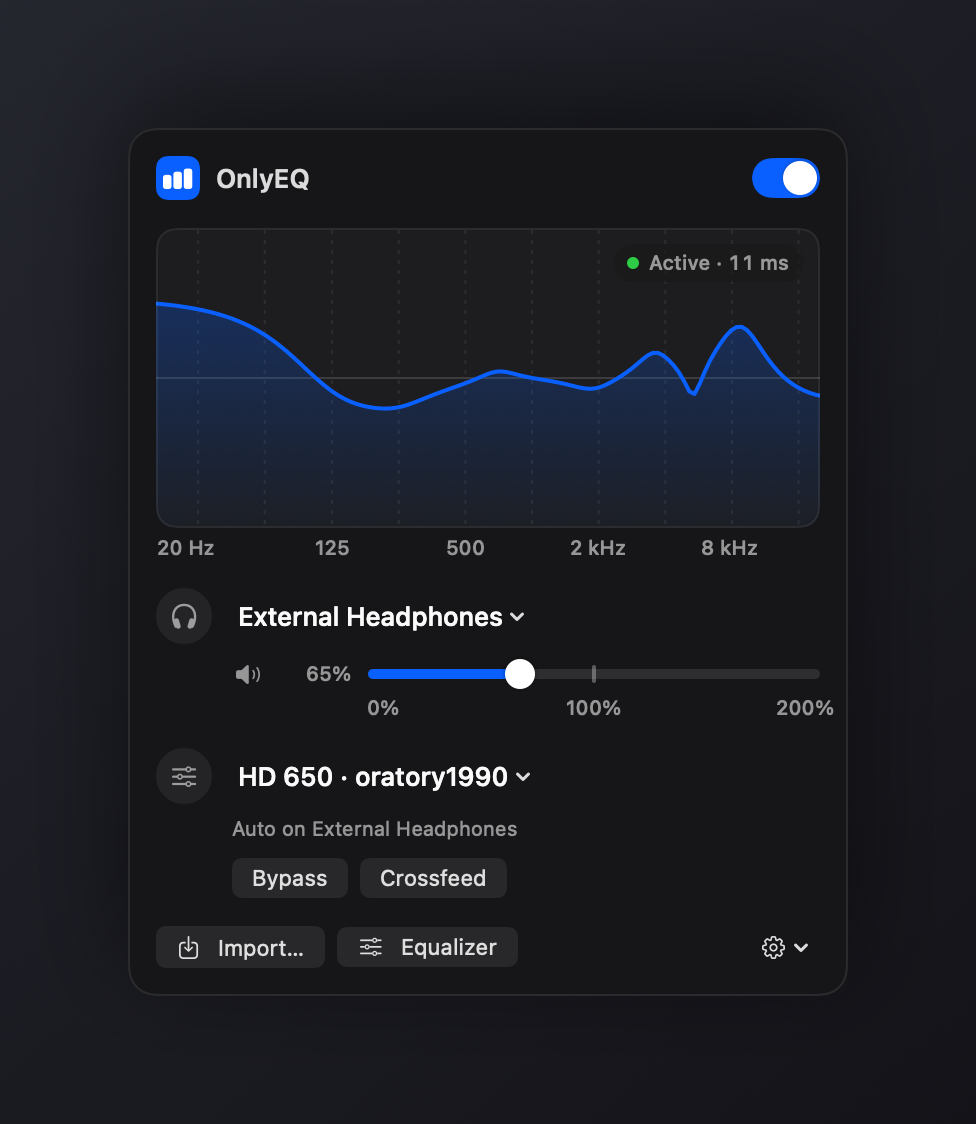
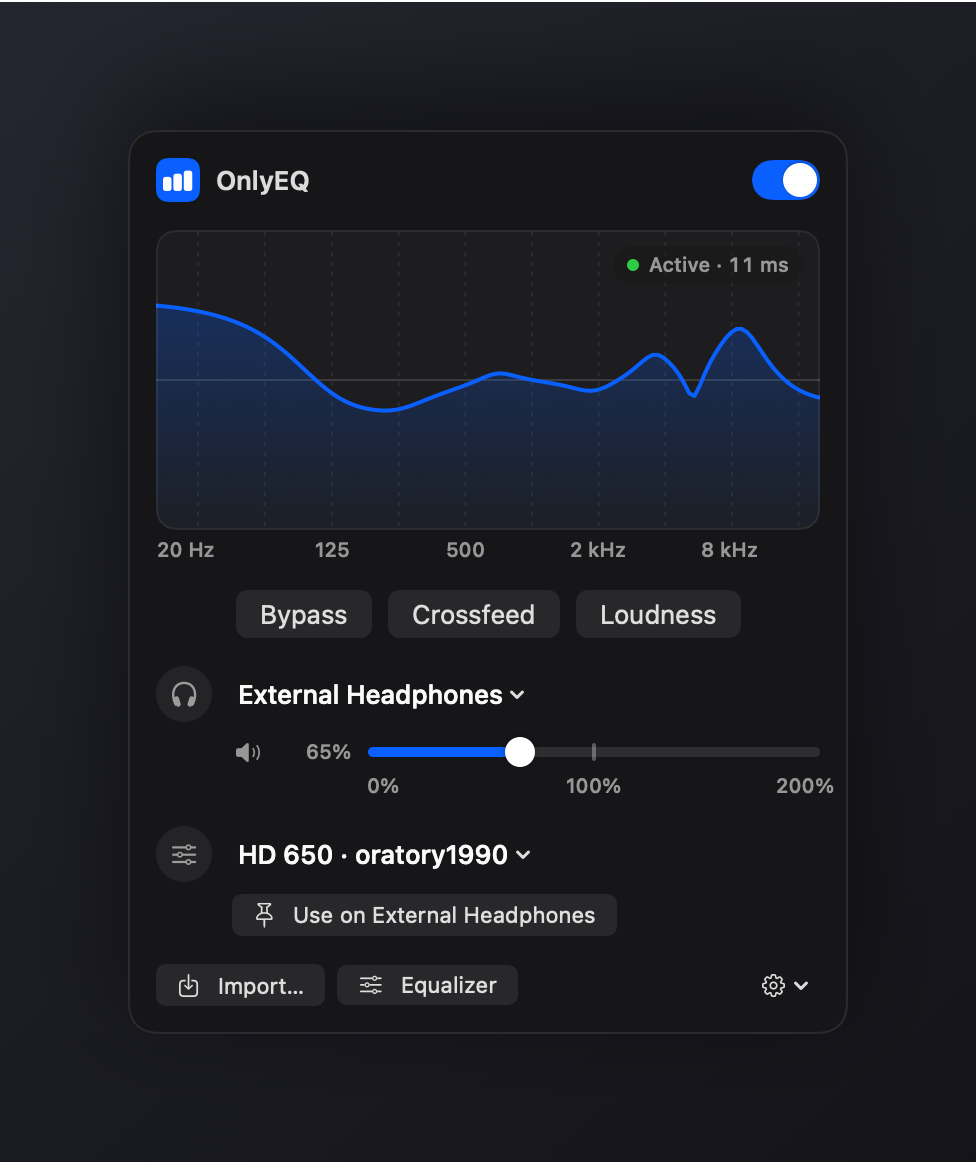
feat: listening row under the curve, bindable preset with undo (#39)

diff --git a/Sources/OnlyEQ/UI/PopoverView.swift b/Sources/OnlyEQ/UI/PopoverView.swift
@@ -15,9 +15,9 @@ import SwiftUI
 // STORY: Open, watch the curve under the music, see which device and preset
 //   are live, flip Bypass to hear it flat, close. Editing happens elsewhere.
 // FIRST VIEWPORT: 360 pt wide, about 430 tall. OnlyEQ and its switch; the
-//   plot, 150 pt, with its axis and a status pill in the corner; output
-//   device with volume; preset with its device binding and Bypass |
-//   Crossfeed; Import…, Equalizer, and the gear at the bottom.
+//   plot, 150 pt, with its axis and a status pill in the corner; Bypass |
+//   Crossfeed | Loudness under the axis; output device with volume; preset
+//   with its device binding; Import…, Equalizer, and the gear at the bottom.
 // FORM: curve-first stack, candidate 2 of the grounded list, chosen by the
 //   user over the rolled candidate 7 (key 1512465f).
 // FINISH: unreviewed and undocumented is unfinished; this build ends with
@@ -40,6 +40,7 @@ struct PopoverView: View {
             header
             curvePane
             Group {
+                listeningRow
                 deviceRow
                 presetRow
             }
@@ -269,32 +270,51 @@ struct PopoverView: View {
             VStack(alignment: .leading, spacing: 8) {
                 // The binding that makes "set once" work is otherwise
                 // invisible; name it under the preset, or offer it.
-                if let caption = presetBindingCaption {
-                    Text(caption)
-                        .font(.caption)
-                        .foregroundStyle(.secondary)
-                        .lineLimit(1)
-                } else if let device = state.currentDevice {
-                    Button("Use on \(device.name) automatically") {
-                        state.bindPresetToCurrentDevice()
+                if let caption = presetBindingCaption, let device = state.currentDevice {
+                    // Binding is reversible where it was made.
+                    Menu {
+                        Button("Stop Using Automatically on \(device.name)") {
+                            state.unbindCurrentDevice()
+                        }
+                    } label: {
+                        Text(caption)
+                            .font(.caption)
+                            .foregroundStyle(.secondary)
+                            .lineLimit(1)
                     }
-                    .buttonStyle(.plain)
-                    .font(.caption)
-                    .foregroundStyle(Color.accentColor)
-                    .lineLimit(1)
-                    .help("Apply this preset whenever \(device.name) becomes the output")
+                    .menuStyle(.borderlessButton)
+                    .fixedSize()
+                    .help("This preset is applied whenever \(device.name) becomes the output.")
+                } else if let device = state.currentDevice {
+                    Button {
+                        state.bindPresetToCurrentDevice()
+                    } label: {
+                        Label("Use on \(device.name)", systemImage: "pin")
+                            .lineLimit(1)
+                    }
+                    .buttonStyle(.bordered)
+                    .controlSize(.small)
+                    .help("Apply this preset automatically whenever \(device.name) becomes the output")
                 }
-                HStack(spacing: 6) {
-                    Toggle("Bypass", isOn: $state.bypassed)
-                        .help("Hear the unprocessed signal without changing the preset")
-                    Toggle("Crossfeed", isOn: $state.crossfeedEnabled)
-                        .help("Blend a little of each channel into the other for headphones")
-                }
-                .toggleStyle(.button)
-                .buttonStyle(.bordered)
-                .controlSize(.small)
             }
         }
+    }
+
+    /// The listening switches sit under the curve: Bypass empties the
+    /// plot when pressed, so the control and its feedback stay together.
+    private var listeningRow: some View {
+        HStack(spacing: 8) {
+            Toggle("Bypass", isOn: $state.bypassed)
+                .help("Hear the unprocessed signal without changing the preset")
+            Toggle("Crossfeed", isOn: $state.crossfeedEnabled)
+                .help("Blend a little of each channel into the other for headphones")
+            Toggle("Loudness", isOn: $state.loudnessEnabled)
+                .help("Raise bass and treble as the volume drops below your reference level")
+        }
+        .toggleStyle(.button)
+        .buttonStyle(.bordered)
+        .controlSize(.regular)
+        .frame(maxWidth: .infinity)
     }
 
     private func menuLabel(_ name: String) -> some View {

diff --git a/Sources/OnlyEQ/TestRunner.swift b/Sources/OnlyEQ/TestRunner.swift
@@ -211,6 +211,11 @@ enum TestRunner {
             let byName = DeviceProfile(deviceUID: "uid-c", deviceName: "Headphones",
                                        presetID: UUID(), presetName: "Working")
             expect(corrupt.resolveProfilePreset(byName)?.id == stored.id, "binding resolves by name when the id is stale")
+
+            corrupt.setProfile(deviceUID: "uid-c", deviceName: "Headphones", preset: stored)
+            corrupt.removeProfile(deviceUID: "uid-c")
+            expect(corrupt.deviceProfiles["uid-c"] == nil, "removing a profile forgets the device")
+            expect(PresetStore(directory: dir).deviceProfiles["uid-c"] == nil, "removed profile stays removed on disk")
             expect(corrupt.customPresets.count == 1, "saving under an existing name replaces, not appends")
         }
     }

diff --git a/Sources/OnlyEQ/App/AppState.swift b/Sources/OnlyEQ/App/AppState.swift
@@ -527,6 +527,13 @@ final class AppState: ObservableObject {
         store.setProfile(deviceUID: device.uid, deviceName: device.name, preset: preset, autoApply: true)
     }
 
+    /// The reverse of binding: the device keeps whatever is playing now but
+    /// nothing is applied for it on connect.
+    func unbindCurrentDevice() {
+        guard let device = currentDevice else { return }
+        store.removeProfile(deviceUID: device.uid)
+    }
+
     /// The stored preset the working preset came from, if it still exists.
     var savedPreset: EQPreset? { store.allPresets.first { $0.id == preset.id } }
 

diff --git a/Sources/OnlyEQ/Models/PresetStore.swift b/Sources/OnlyEQ/Models/PresetStore.swift
@@ -84,6 +84,12 @@ final class PresetStore: ObservableObject {
         workingPresets[uid]
     }
 
+    /// Forget a device entirely: no preset, no auto-apply, as if never seen.
+    func removeProfile(deviceUID: String) {
+        deviceProfiles[deviceUID] = nil
+        persist()
+    }
+
     func setProfile(deviceUID: String, deviceName: String, preset: EQPreset?, autoApply: Bool = true) {
         deviceProfiles[deviceUID] = DeviceProfile(
             deviceUID: deviceUID, deviceName: deviceName,

diff --git a/DESIGN.md b/DESIGN.md
@@ -152,7 +152,7 @@ components:
 
 OnlyEQ should look like a utility Apple forgot to ship. Every colour is a system semantic colour that follows the user's accent and appearance; every typeface is San Francisco through the system text styles; every control is either a native SwiftUI control or a pixel-faithful stand-in for one. The app has no palette, no logo mark beyond an SF Symbol in an accent square, and no decoration. Brand lives in one place only: the frequency-response curve with the live spectrum breathing behind it, and the band palette that ties graph handles to their cards.
 
-The popover is one instrument, not a stack of cards. Under the name and its switch, the live response spans the full width inside a hairline well, and the controls follow beneath it, reading top to bottom as the signal path: output device with volume, preset with its device binding and Bypass and Crossfeed, then Import, Equalizer, and the gear. Rows are separated by space, not by boxes. The whole thing sits on the system's own menu-bar material in a 360 point wide panel at least 420 points tall that grows only with the system text size. The editor, Settings, onboarding, and the import sheet are ordinary macOS windows: a unified toolbar, toolbar-style settings tabs, a setup assistant with a Back and Continue footer, a sheet with a segmented picker.
+The popover is one instrument, not a stack of cards. Under the name and its switch, the live response spans the full width inside a hairline well, with Bypass, Crossfeed, and Loudness in one row beneath it, and the controls follow, reading top to bottom as the signal path: output device with volume, preset with its device binding, then Import, Equalizer, and the gear. Rows are separated by space, not by boxes. The whole thing sits on the system's own menu-bar material in a 360 point wide panel at least 420 points tall that grows only with the system text size. The editor, Settings, onboarding, and the import sheet are ordinary macOS windows: a unified toolbar, toolbar-style settings tabs, a setup assistant with a Back and Continue footer, a sheet with a segmented picker.
 
 Motion is short, eased, and tied to a state change. A switch slides in 120 ms, bypass fades the plot in 150 ms, the band strip scrolls a selected card into view in 200 ms, and the spectrum attacks in 10 ms and releases over 400 ms. Every one of them is skipped under Reduce Motion, and that is the whole vocabulary.
 
@@ -221,7 +221,7 @@ The palette is macOS itself; the tokens above are dark-appearance snapshots of d
 
 ## Layout
 
-The popover is one `VStack` at 14 pt spacing inside 14 pt padding, 360 pt wide and at least 420 pt tall. Top to bottom: the header (22 pt app badge, the name, the switch at the trailing edge), the plot well at a fixed 150 pt with the status pill in its top-trailing corner and the compact axis labels 4 pt beneath, the device row with the boost slider, the preset row with its binding caption and Bypass and Crossfeed, and the footer (Import, Equalizer, and the gear menu with its system indicator). Each identity row is a 28 pt circled symbol, a 10 pt gap, a borderless menu, and its detail indented 38 pt underneath. The popover is sized once to its fitting size when shown, so the panel never resizes while open. It grows only with the system text size.
+The popover is one `VStack` at 14 pt spacing inside 14 pt padding, 360 pt wide and at least 420 pt tall. Top to bottom: the header (22 pt app badge, the name, the switch at the trailing edge), the plot well at a fixed 150 pt with the status pill in its top-trailing corner and the compact axis labels 4 pt beneath, the listening row (Bypass, Crossfeed, Loudness as regular-size button toggles, centred), the device row with the boost slider, the preset row with its binding line (a "Use on <device>" button, or an "Auto on <device>" menu whose one item removes the binding), and the footer (Import, Equalizer, and the gear menu with its system indicator). Each identity row is a 28 pt circled symbol, a 10 pt gap, a borderless menu, and its detail indented 38 pt underneath. The popover is sized once to its fitting size when shown, so the panel never resizes while open. It grows only with the system text size.
 
 The editor window opens at 840 by 560 pt with a minimum of 720 by 480. Its unified 52 pt title bar carries real toolbar items (preset menu, Save, Revert on the left; Bypass in the centre; Import and the gear on the right) and hides the window title. Below it: the Compare row, a divider, the graph filling the remaining height with 24 pt side margins, a 122 pt horizontally scrolling strip of 150 pt band cards at 8 pt spacing, a divider, and the Preamp bar. Everything in the editor shares the 24 pt horizontal margin.
 

diff --git a/README.md b/README.md
@@ -18,7 +18,7 @@ This is a fork of [zollans/OnlyEQ](https://github.com/zollans/OnlyEQ). Everythin
 - **Loudness-matched bypass.** Bypass keeps the preamp, output gain, and limiter active and skips only the filter bands. It also measures the K-weighted loudness (ITU-R BS.1770) the bands add on whatever is playing, averaged over the last three seconds, and applies that gain to the bypassed signal, so an A/B comparison is decided by tone rather than by which side is louder.
 - **Crossfeed** for headphones (Bauer-style low-pass and 0.3 ms delay, with the near ear giving up the bass the far ear receives so centred content passes at unity). Toggle in the popover; Settings › Sound offers the three published bs2b settings (Natural, Chu Moy, Jan Meier) or a custom amount and cutoff.
 - **Loudness compensation** following the ISO 226 equal-loudness contours: low and high shelves grow as the volume drops below a reference level you set, and the preamp absorbs the boost so nothing clips.
-- **A popover that is the instrument.** The live curve spans the popover under the name and switch, with the input and output spectrum behind it; the controls below read as the signal path: output device and volume, preset with the device it is bound to, Bypass and Crossfeed. The panel uses the system menu-bar material (Liquid Glass on macOS 26). The menu-bar icon fills while the EQ shapes sound and outlines while it is off or bypassed.
+- **A popover that is the instrument.** The live curve spans the popover under the name and switch, with the input and output spectrum behind it; Bypass, Crossfeed, and Loudness sit right under it, and the rows below read as the signal path: output device and volume, then the preset with the device it is bound to. The panel uses the system menu-bar material (Liquid Glass on macOS 26). The menu-bar icon fills while the EQ shapes sound and outlines while it is off or bypassed.
 - **Editor with a real title-bar toolbar**, and Settings in its own window (⌘,), as on any Mac app.
 - **Releases from GitHub Actions.** Every push runs the self-tests and builds the universal app in release mode. Pushing a `v*` tag signs the archive with this fork's Sparkle key and publishes it with its appcast as a GitHub Release, which installed copies pick up automatically. Upstream's feed is no longer used, so an upstream release can never replace a fork build.
 - **Input and output spectrum.** The analyser draws the pre-EQ signal in grey behind the post-EQ signal in the accent colour, level-aligned for preamp and output gain, so the EQ's effect is visible on real music. Bars show band power (a full-scale sine reads 0 dBFS), tilted 2 dB per octave so typical music reads flat instead of bass-heavy, with a 10 ms attack and 400 ms release so transients register without flicker. Bars below about 300 Hz read from a 16384-point FFT and the rest from a 2048-point one, so bass has real resolution without smearing transients above.

diff --git a/release-notes/1.4.3.md b/release-notes/1.4.3.md
@@ -1,0 +1,5 @@
+# OnlyEQ 1.4.3
+
+- Bypass, Crossfeed, and Loudness sit in one row directly under the curve. Loudness compensation was only in Settings › Sound before.
+- The offer to bind the preset to the current device is a real button, "Use on <device>", instead of accent-coloured text.
+- Once bound, the "Auto on <device>" line is a menu with "Stop Using Automatically", so the binding can be undone where it was made.
